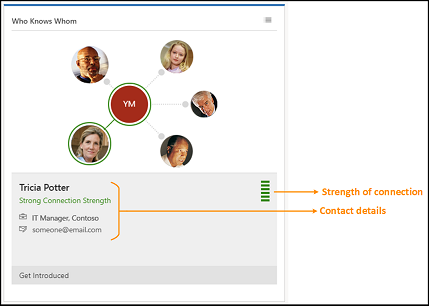
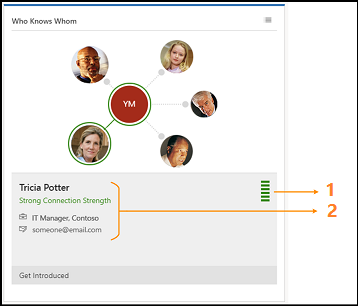
updated wkw screen for L10N

diff --git a/ai-docs/sales/who-knows-whom.md b/ai-docs/sales/who-knows-whom.md
@@ -45,6 +45,8 @@ Who Knows Whom is available in **Contact** and **Lead** forms. When you open a l
 
     > [!div class="mx-imgBorder"]
     > ![Connection details](media/wkw_connectiondetails.png "Connection details")<br>
+      1. Strength of the connection
+      2. Contact details
   
     To get introduced to the lead, you can send an email to the selected contact without leaving the page you are on. Select **Get Introduced**. This opens an email with a default request to introduce the lead. Select **Send** to send the email. If you want to customize the email with more options, select **Open Email Form**.
 
